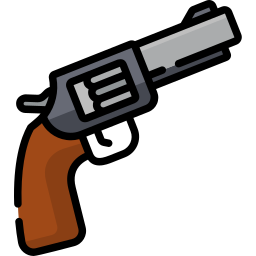
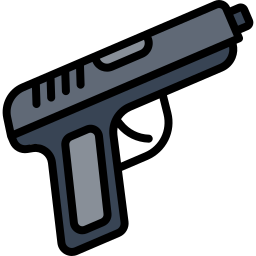
better crosshair and kill feed

diff --git a/client/src/components/game/CrosshairUI.tsx b/client/src/components/game/CrosshairUI.tsx
@@ -1,40 +1,60 @@
+import { useEffect, useState } from "react";
 import { useGameStore } from "../../stores/useGameStore";
 
 const CrosshairUI = () => {
   const spread = useGameStore((state) => state.crosshairSpread);
   const isLocked = useGameStore((state) => state.isLocked);
+  const matchState = useGameStore((state) => state.matchState);
 
-  // hide the crosshair if we are in the menu
-  if (!isLocked) return null;
+  const [isHoldingTab, setIsHoldingTab] = useState(false);
 
-  // the base distance the lines sit from the center
+  useEffect(() => {
+    const handleKeyDown = (e: KeyboardEvent) => {
+      if (e.key === "Tab") setIsHoldingTab(true);
+    };
+
+    const handleKeyUp = (e: KeyboardEvent) => {
+      if (e.key === "Tab") setIsHoldingTab(false);
+    };
+
+    window.addEventListener("keydown", handleKeyDown);
+    window.addEventListener("keyup", handleKeyUp);
+
+    return () => {
+      window.removeEventListener("keydown", handleKeyDown);
+      window.removeEventListener("keyup", handleKeyUp);
+    };
+  }, []);
+
+  // if the mouse is unlocked, the match is over, or the scoreboard is open
+  if (!isLocked || matchState === "ended" || isHoldingTab) return null;
+
   const baseOffset = 8;
   const currentOffset = baseOffset + spread;
 
   return (
     <div className="absolute inset-0 flex items-center justify-center pointer-events-none z-50">
-      {/* Top Line */}
+      {/* top Line */}
       <div
         className="absolute bg-white/90 w-1 h-3 rounded-sm shadow-[0_0_2px_rgba(0,0,0,0.8)]"
         style={{ transform: `translateY(-${currentOffset}px)` }}
       />
-      {/* Bottom Line */}
+      {/* bottom Line */}
       <div
         className="absolute bg-white/90 w-1 h-3 rounded-sm shadow-[0_0_2px_rgba(0,0,0,0.8)]"
         style={{ transform: `translateY(${currentOffset}px)` }}
       />
-      {/* Left Line */}
+      {/* left Line */}
       <div
         className="absolute bg-white/90 w-3 h-1 rounded-sm shadow-[0_0_2px_rgba(0,0,0,0.8)]"
         style={{ transform: `translateX(-${currentOffset}px)` }}
       />
-      {/* Right Line */}
+      {/* right Line */}
       <div
         className="absolute bg-white/90 w-3 h-1 rounded-sm shadow-[0_0_2px_rgba(0,0,0,0.8)]"
         style={{ transform: `translateX(${currentOffset}px)` }}
       />
-
-      {/* Optional: Small Center Dot */}
+      {/* small Center Dot */}
       <div className="absolute bg-white/80 w-1 h-1 rounded-full" />
     </div>
   );

diff --git a/client/src/components/game/KillFeedUI.tsx b/client/src/components/game/KillFeedUI.tsx
@@ -1,11 +1,23 @@
 import { useEffect } from "react";
 import { useGameStore } from "../../stores/useGameStore";
+import {
+  iconAssaultRifle,
+  iconBurstRifle,
+  iconPistol,
+} from "../../utils/assetPaths";
+
+// helper to map the server's weapon name to the UI icon
+const getKillFeedIcon = (weaponName: string) => {
+  const name = weaponName.toLowerCase();
+  if (name.includes("burst")) return iconBurstRifle;
+  if (name.includes("pistol")) return iconPistol;
+  return iconAssaultRifle;
+};
 
 const KillFeedUI = () => {
   const killFeed = useGameStore((state) => state.killFeed);
   const removeOldKills = useGameStore((state) => state.removeOldKills);
 
-  // self-cleaning garbage collector (runs every 1 second)
   useEffect(() => {
     const interval = setInterval(() => {
       removeOldKills();
@@ -13,7 +25,6 @@ const KillFeedUI = () => {
     return () => clearInterval(interval);
   }, [removeOldKills]);
 
-  // don't render anything if there are no recent kills
   if (killFeed.length === 0) return null;
 
   return (
@@ -23,7 +34,7 @@ const KillFeedUI = () => {
           key={kill.id}
           className="bg-black/60 backdrop-blur-md px-4 py-2 rounded-lg border border-white/10 shadow-lg text-sm font-bold flex items-center gap-2 animate-in fade-in slide-in-from-right-4 duration-300"
         >
-          {/* shooter Name */}
+          {/* Shooter Name */}
           <span
             className={
               kill.shooterTeam === "red" ? "text-red-400" : "text-blue-400"
@@ -32,12 +43,14 @@ const KillFeedUI = () => {
             {kill.shooter}
           </span>
 
-          {/* weapon Used */}
-          <span className="text-neutral-400 text-xs uppercase tracking-wider mx-1">
-            [{kill.weapon}]
-          </span>
+          {/* Weapon Icon (Replacing the text) */}
+          <img
+            src={getKillFeedIcon(kill.weapon)}
+            alt={kill.weapon}
+            className="h-4 object-contain mx-2 opacity-80"
+          />
 
-          {/* target Name */}
+          {/* Target Name */}
           <span
             className={
               kill.targetTeam === "red" ? "text-red-400" : "text-blue-400"

diff --git a/client/src/utils/assetPaths.ts b/client/src/utils/assetPaths.ts
@@ -1,2 +1,6 @@
 export const gridColorPath =
-  "./images/prototypeTextures/normal/green/green_texture2_text.png";
+  "/images/prototypeTextures/normal/green/green_texture2_text.png";
+
+export const iconAssaultRifle = "/images/assault_rifle.png";
+export const iconBurstRifle = "/images/burst_rifle.png";
+export const iconPistol = "/images/pistol.png";

diff --git a/client/index.html b/client/index.html
@@ -10,7 +10,7 @@
       href="https://fonts.googleapis.com/css2?family=Inter:ital,opsz,wght@0,14..32,100..900;1,14..32,100..900&display=swap"
       rel="stylesheet"
     />
-    <title>Project Shooter</title>
+    <title>Block Shooter</title>
   </head>
   <body>
     <div id="root"></div>
